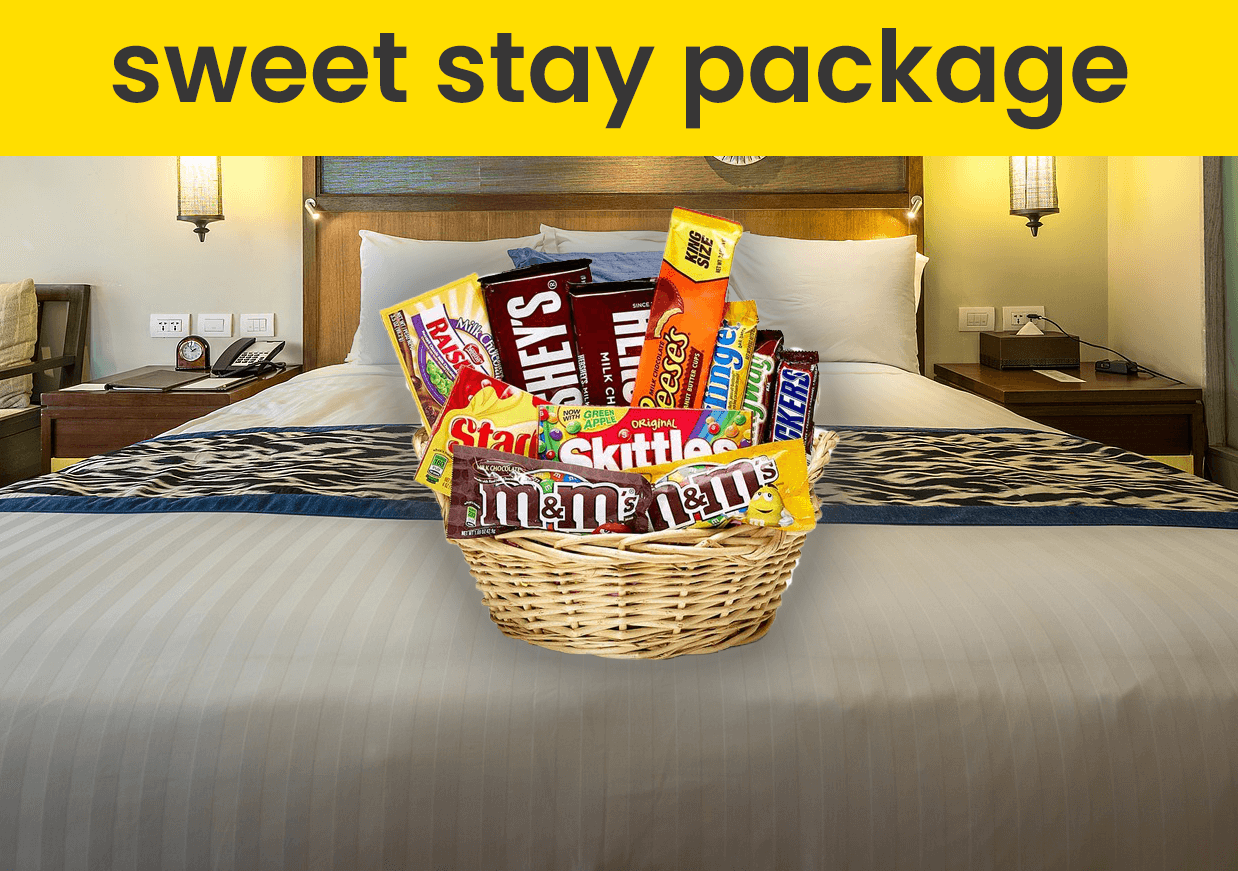
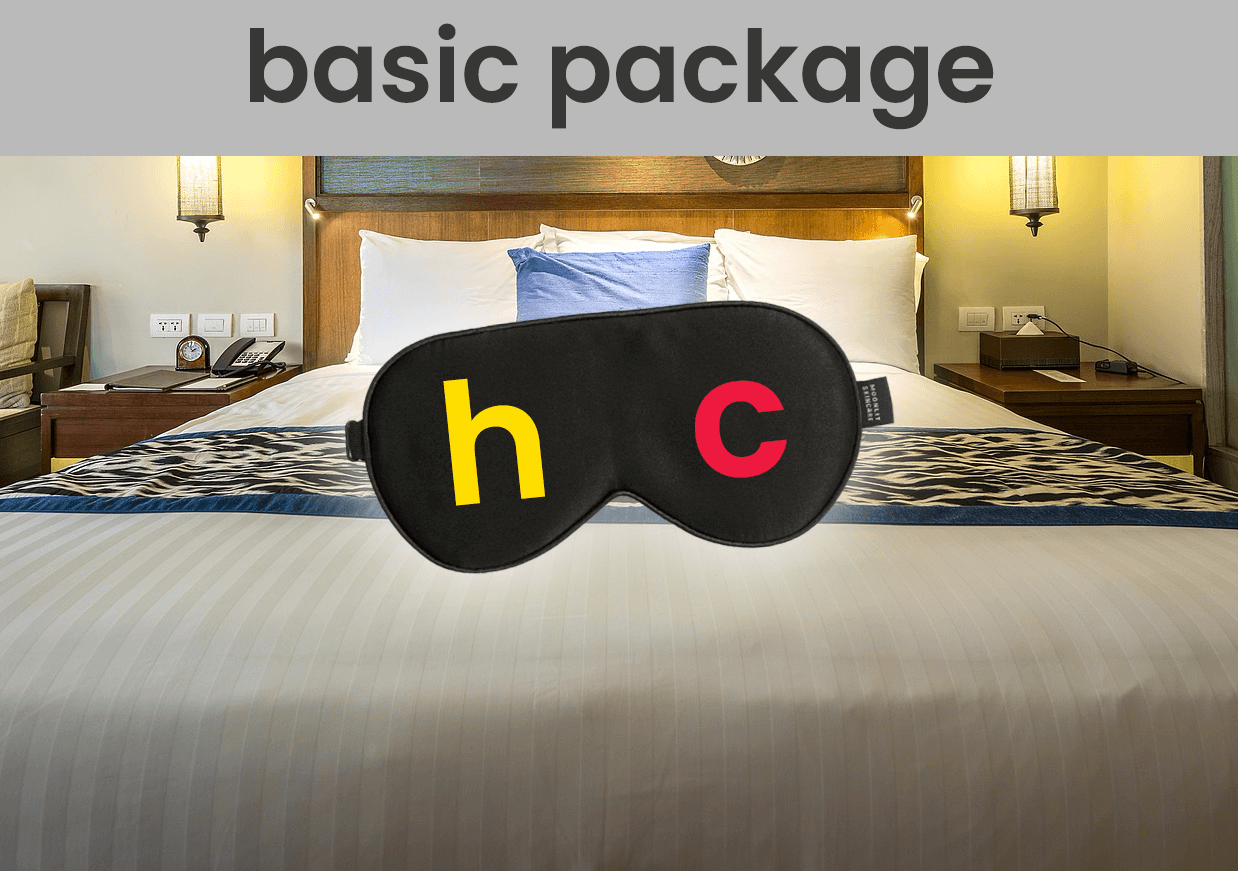
renamed reservation page to avoid confusion, got button working with sample data, console logs in place to track state better

diff --git a/client/src/components/ReservationPage1/index.js b/client/src/components/ReservationPage1/index.js
@@ -1,13 +1,32 @@
 import React, { useState } from 'react';
 import './index.css'
-import { Row, Col, Container, ListGroup, ListGroupItem, Image} from 'react-bootstrap';
+import { 
+  Row, 
+  Col, 
+  Container, 
+  ListGroup, 
+  ListGroupItem, 
+  Image, 
+  Button 
+} from 'react-bootstrap';
 
-function ReservationPage1() {
-  const [selectedPackage, setSelectedPackage] = useState('');
+function ReservationPage1(props) {
+  const {
+    setPackageData,
+    packageData,
+    nextPage,
+    setPage,
+    page
+  } = props; 
 
-  function handleSelect(event) {
-    console.log(event.target.name)
-    setSelectedPackage(event.target.name)
+  function handleChoice(selection) {
+    console.log(`I clicked the button to select option ${selection}`);
+    // useMutation for getting the package data for name and price
+    // selection as the data is just to see if the prop works for now
+    setPackageData({
+      name: selection,
+      price: selection
+    })
   }
 
   return (
@@ -20,10 +39,10 @@ function ReservationPage1() {
             <p>We don't just check you in, <em>we make sure you're happy</em>. Choose your desired package and pricing below to get started:</p>
         </Row>
         <ListGroup>
-          <ListGroupItem className="item odd" name="basic" onClick={handleSelect}>
+          <ListGroupItem className="item odd">
             <Row className="align-items-center">
               <Col md="6">
-                <Image src="./assets/images/hotel-package0-title.png" className="rounded" fluid></Image>
+                <Image src="./assets/images/hotel-package1-title.png" className="rounded" fluid></Image>
               </Col>
               <Col md="6" className="description">
                 <h4>Basic Package: <span className="price">$20</span></h4>
@@ -34,14 +53,15 @@ function ReservationPage1() {
                   <li>Special Requests handled and ready</li>
                   <li>Complimentary Happy Checkin Sleep Mask</li>
                 </ul>
+                <Button className="next-btn" onClick={() => handleChoice(1)}>Choose This Package</Button>
               </Col>
             </Row>
           </ListGroupItem>
           
-          <ListGroupItem className="item" name="sweet stay" onClick={handleSelect}>
+          <ListGroupItem className="item">
             <Row>
               <Col md="6">
-                <Image src="./assets/images/hotel-package1-title.png" className="rounded" fluid></Image>
+                <Image src="./assets/images/hotel-package2-title.png" className="rounded" fluid></Image>
               </Col>
               <Col md="6" className="description">
                 <h4>Sweet Stay Package: <span className="price">$35</span></h4>
@@ -55,10 +75,10 @@ function ReservationPage1() {
             </Row>
           </ListGroupItem>
 
-          <ListGroupItem className="item odd" name="charcuterie" onClick={handleSelect}>
+          <ListGroupItem className="item odd">
             <Row>
               <Col md="6">
-                <Image src="./assets/images/hotel-package2-title.png" className="rounded" fluid></Image>
+                <Image src="./assets/images/hotel-package3-title.png" className="rounded" fluid></Image>
               </Col>
               <Col md="6" className="description">
                 <h4>Charcuterie Package: <span className="price">$70</span></h4>
@@ -72,10 +92,10 @@ function ReservationPage1() {
             </Row>
           </ListGroupItem>
 
-          <ListGroupItem className="item" name="honeymoon" onClick={handleSelect}>
+          <ListGroupItem className="item">
             <Row>
               <Col md="6">
-                <Image src="./assets/images/hotel-package3-title.png" className="rounded" fluid></Image>
+                <Image src="./assets/images/hotel-package4-title.png" className="rounded" fluid></Image>
               </Col>
               <Col md="6" className="description">
                 <h4>Honeymoon Package: <span className="price">$100</span></h4>
@@ -91,9 +111,6 @@ function ReservationPage1() {
             </Row>
           </ListGroupItem>
         </ListGroup>
-        {selectedPackage &&
-          <h4>You selected the {selectedPackage} package!</h4>
-        } 
       </Col>
     </Container>
   )

diff --git a/client/src/pages/AddReservation/index.js b/client/src/pages/AddReservation/index.js
@@ -1,0 +1,88 @@
+import React, { useState, useEffect } from 'react';
+import './index.css'
+import { Container, Button, Row, Col, ProgressBar } from 'react-bootstrap';
+import ReservationPage1 from '../../components/ReservationPage1';
+import ReservationPage2 from '../../components/ReservationPage2';
+import ReservationPage3 from '../../components/ReservationPage3';
+
+
+function Reservation() {
+  const [page, setPage] = useState(1);
+  
+  const [userData, setUserData] = useState({
+    userId: '',
+    firstName: '',
+    lastName: '',
+    email: ''
+  });
+
+  const [hotelData, setHotelData] = useState({
+    hotelName: '',
+    hotelAddress1: '',
+    hotelCity: '',
+    hotelState: '',
+    hotelZip: '',
+    checkinDate: '',
+    options: [],
+    instructions: ''
+  });
+
+  const [packageData, setPackageData] = useState({
+    name: '',
+    price: ''
+  })
+
+  function nextPage() {
+    if (page === 3) return;
+    setPage((page) => page + 1);
+  }
+
+  function goBack() {
+    setPage(1);
+  }
+
+  // function updateData(type, newData) {
+  //   setReservationData((reservationData) => {
+  //     return { ...reservationData, [type]: newData };
+  //   });
+  // }
+
+  console.log(`the current page is ${page}`);
+  console.log(`the current package selection information is ${JSON.stringify(packageData)}`);
+  console.log(`the current hotel data information is ${JSON.stringify(hotelData)}`);
+  console.log(`the current user data is ${JSON.stringify(userData)}`);
+
+  return (
+    <Container>
+      <Row className="justify-content-center">
+        <Col sm="5" >
+          <ProgressBar class="progress" striped variant="warning" max="4" now={page} />
+        </Col>
+      </Row>
+        {page === 1 && 
+          <ReservationPage1 
+            setPackageData={setPackageData}
+            packageData={packageData}
+            nextPage={nextPage}
+            setPage={setPage}
+            page={page}
+          />
+        }
+        {page === 2 && 
+          <ReservationPage2 
+            setHotelData={setHotelData}
+            hotelData={hotelData}
+            nextPage={nextPage}
+            setPage={setPage}
+            page={page}
+          />
+        }
+        {page === 3 && <ReservationPage3 />}
+
+        {page !== 3 && <Button className="next-btn" onClick={nextPage}>Next</Button>}
+        {/* <Button type="submit" onClick={submit}>Looks Great!</Button> */}
+        {page === 3 && <Button onClick={goBack}>Go Back</Button>} 
+    </Container> 
+  )
+}
+export default Reservation;

diff --git a/client/src/App.js b/client/src/App.js
@@ -8,7 +8,7 @@ import LoginForm from './components/LoginForm';
 import SignupForm from './components/SignupForm';
 import CustomerDashboard from './pages/CustomerDashboard';
 import CheckerDashboard from './pages/CheckerDashboard';
-import Reservation from './pages/Reservation';
+import Reservation from './pages/AddReservation';
 // import About from './components/About';
 
 

diff --git a/client/src/pages/AddReservation/index.css b/client/src/pages/AddReservation/index.css
@@ -1,6 +1,6 @@
 .progress {
   background-color: var(--alt-base-grey);
-  margin-top: 15px;
+  margin-bottom: 15px;
 }
 
 .next-btn {
